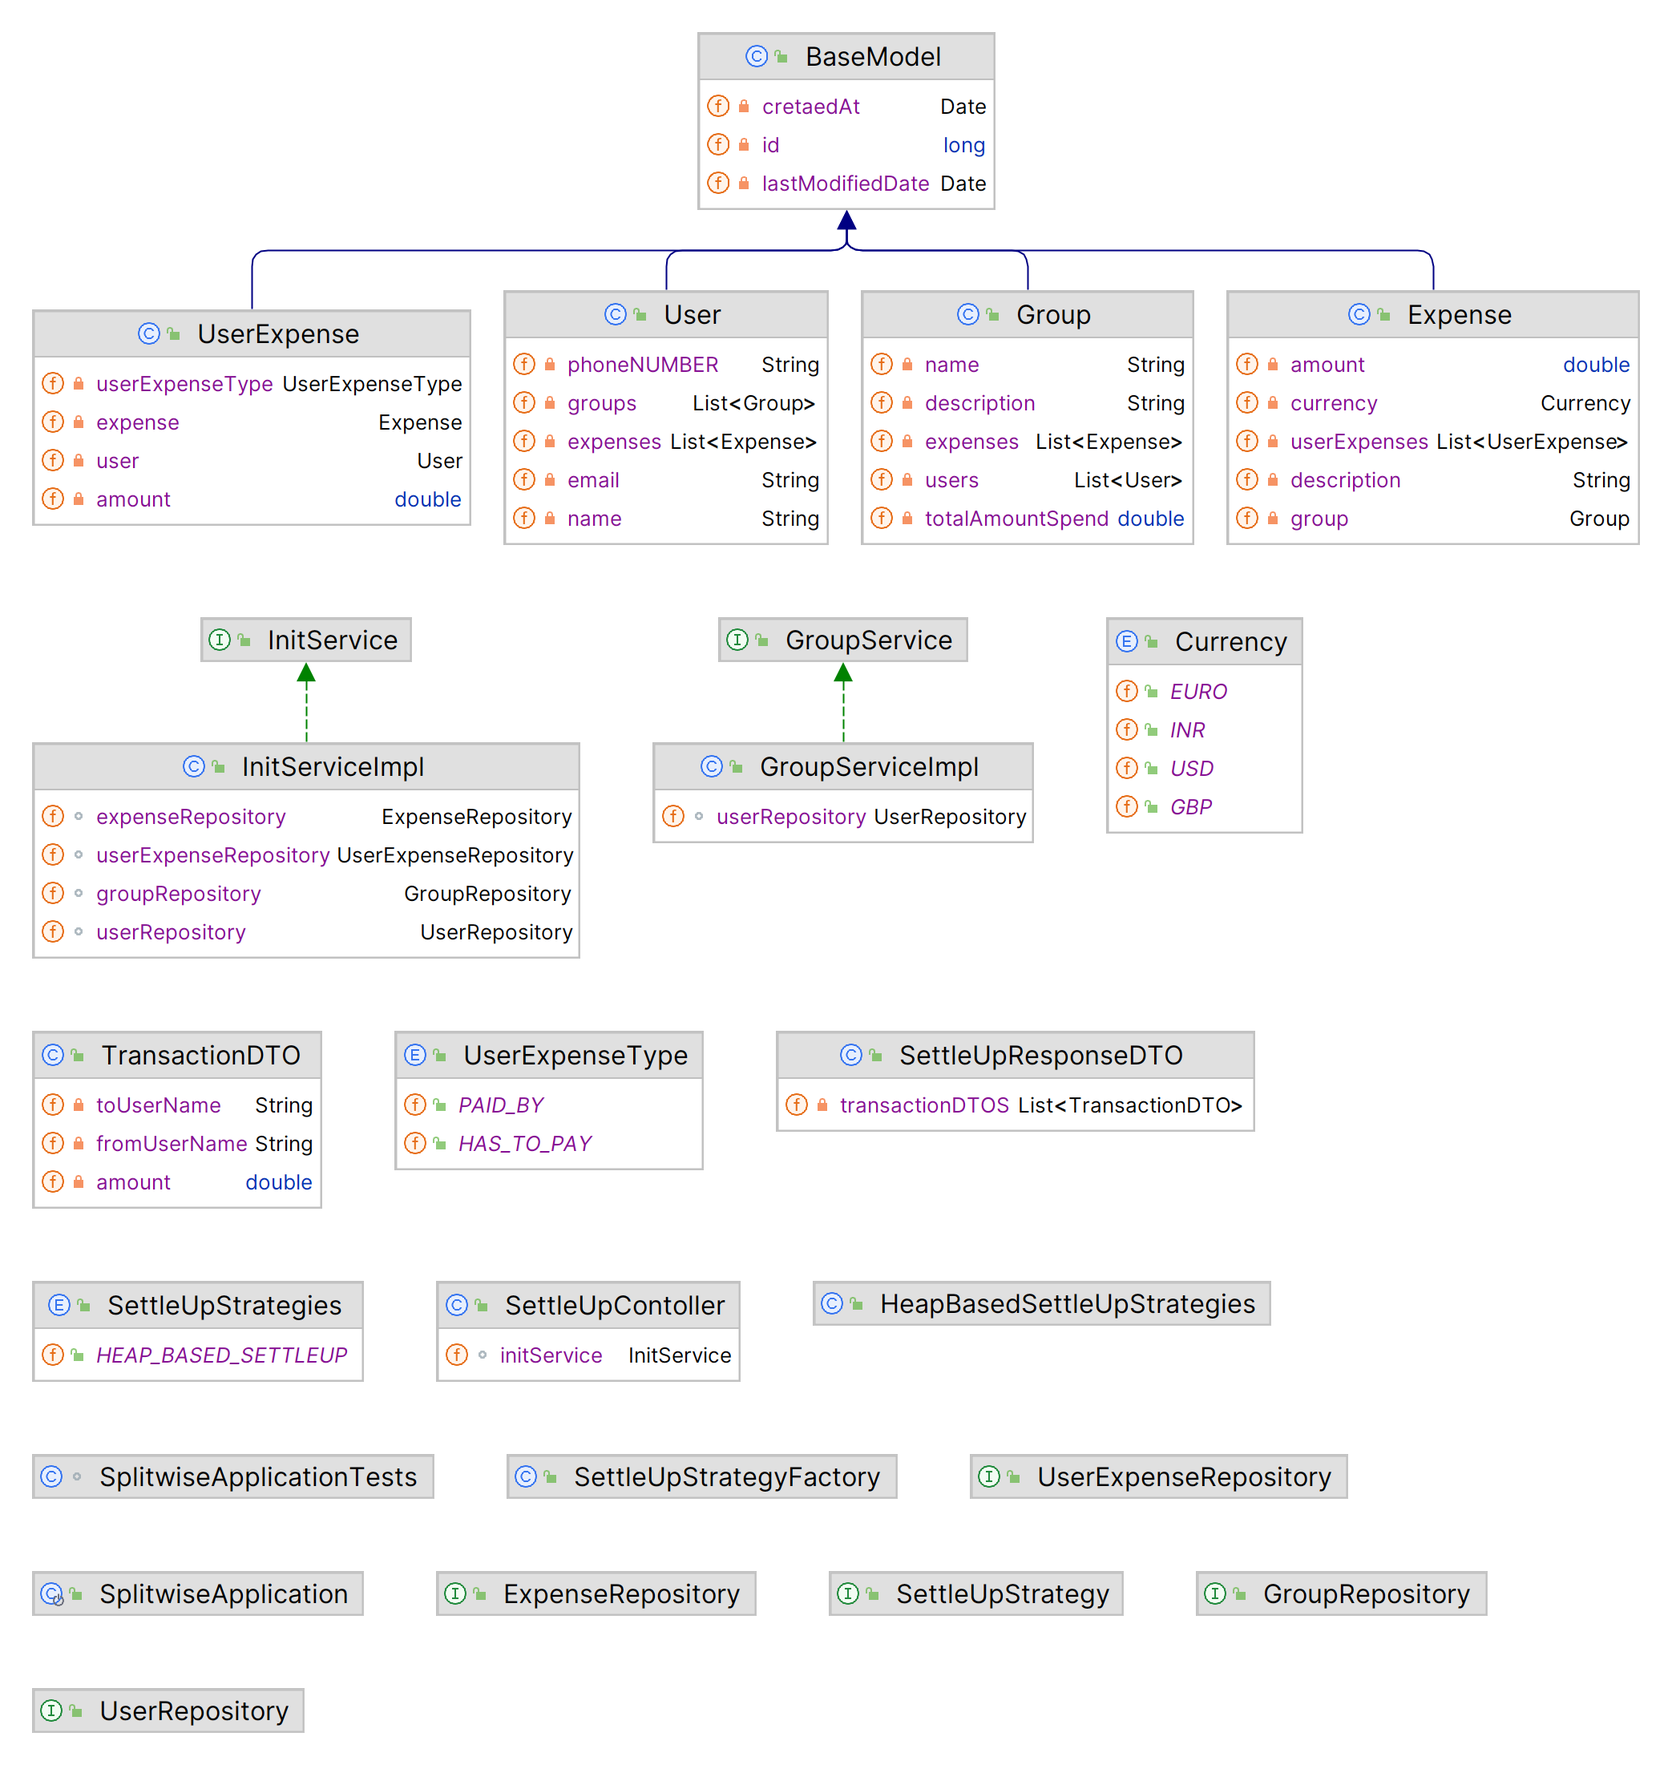
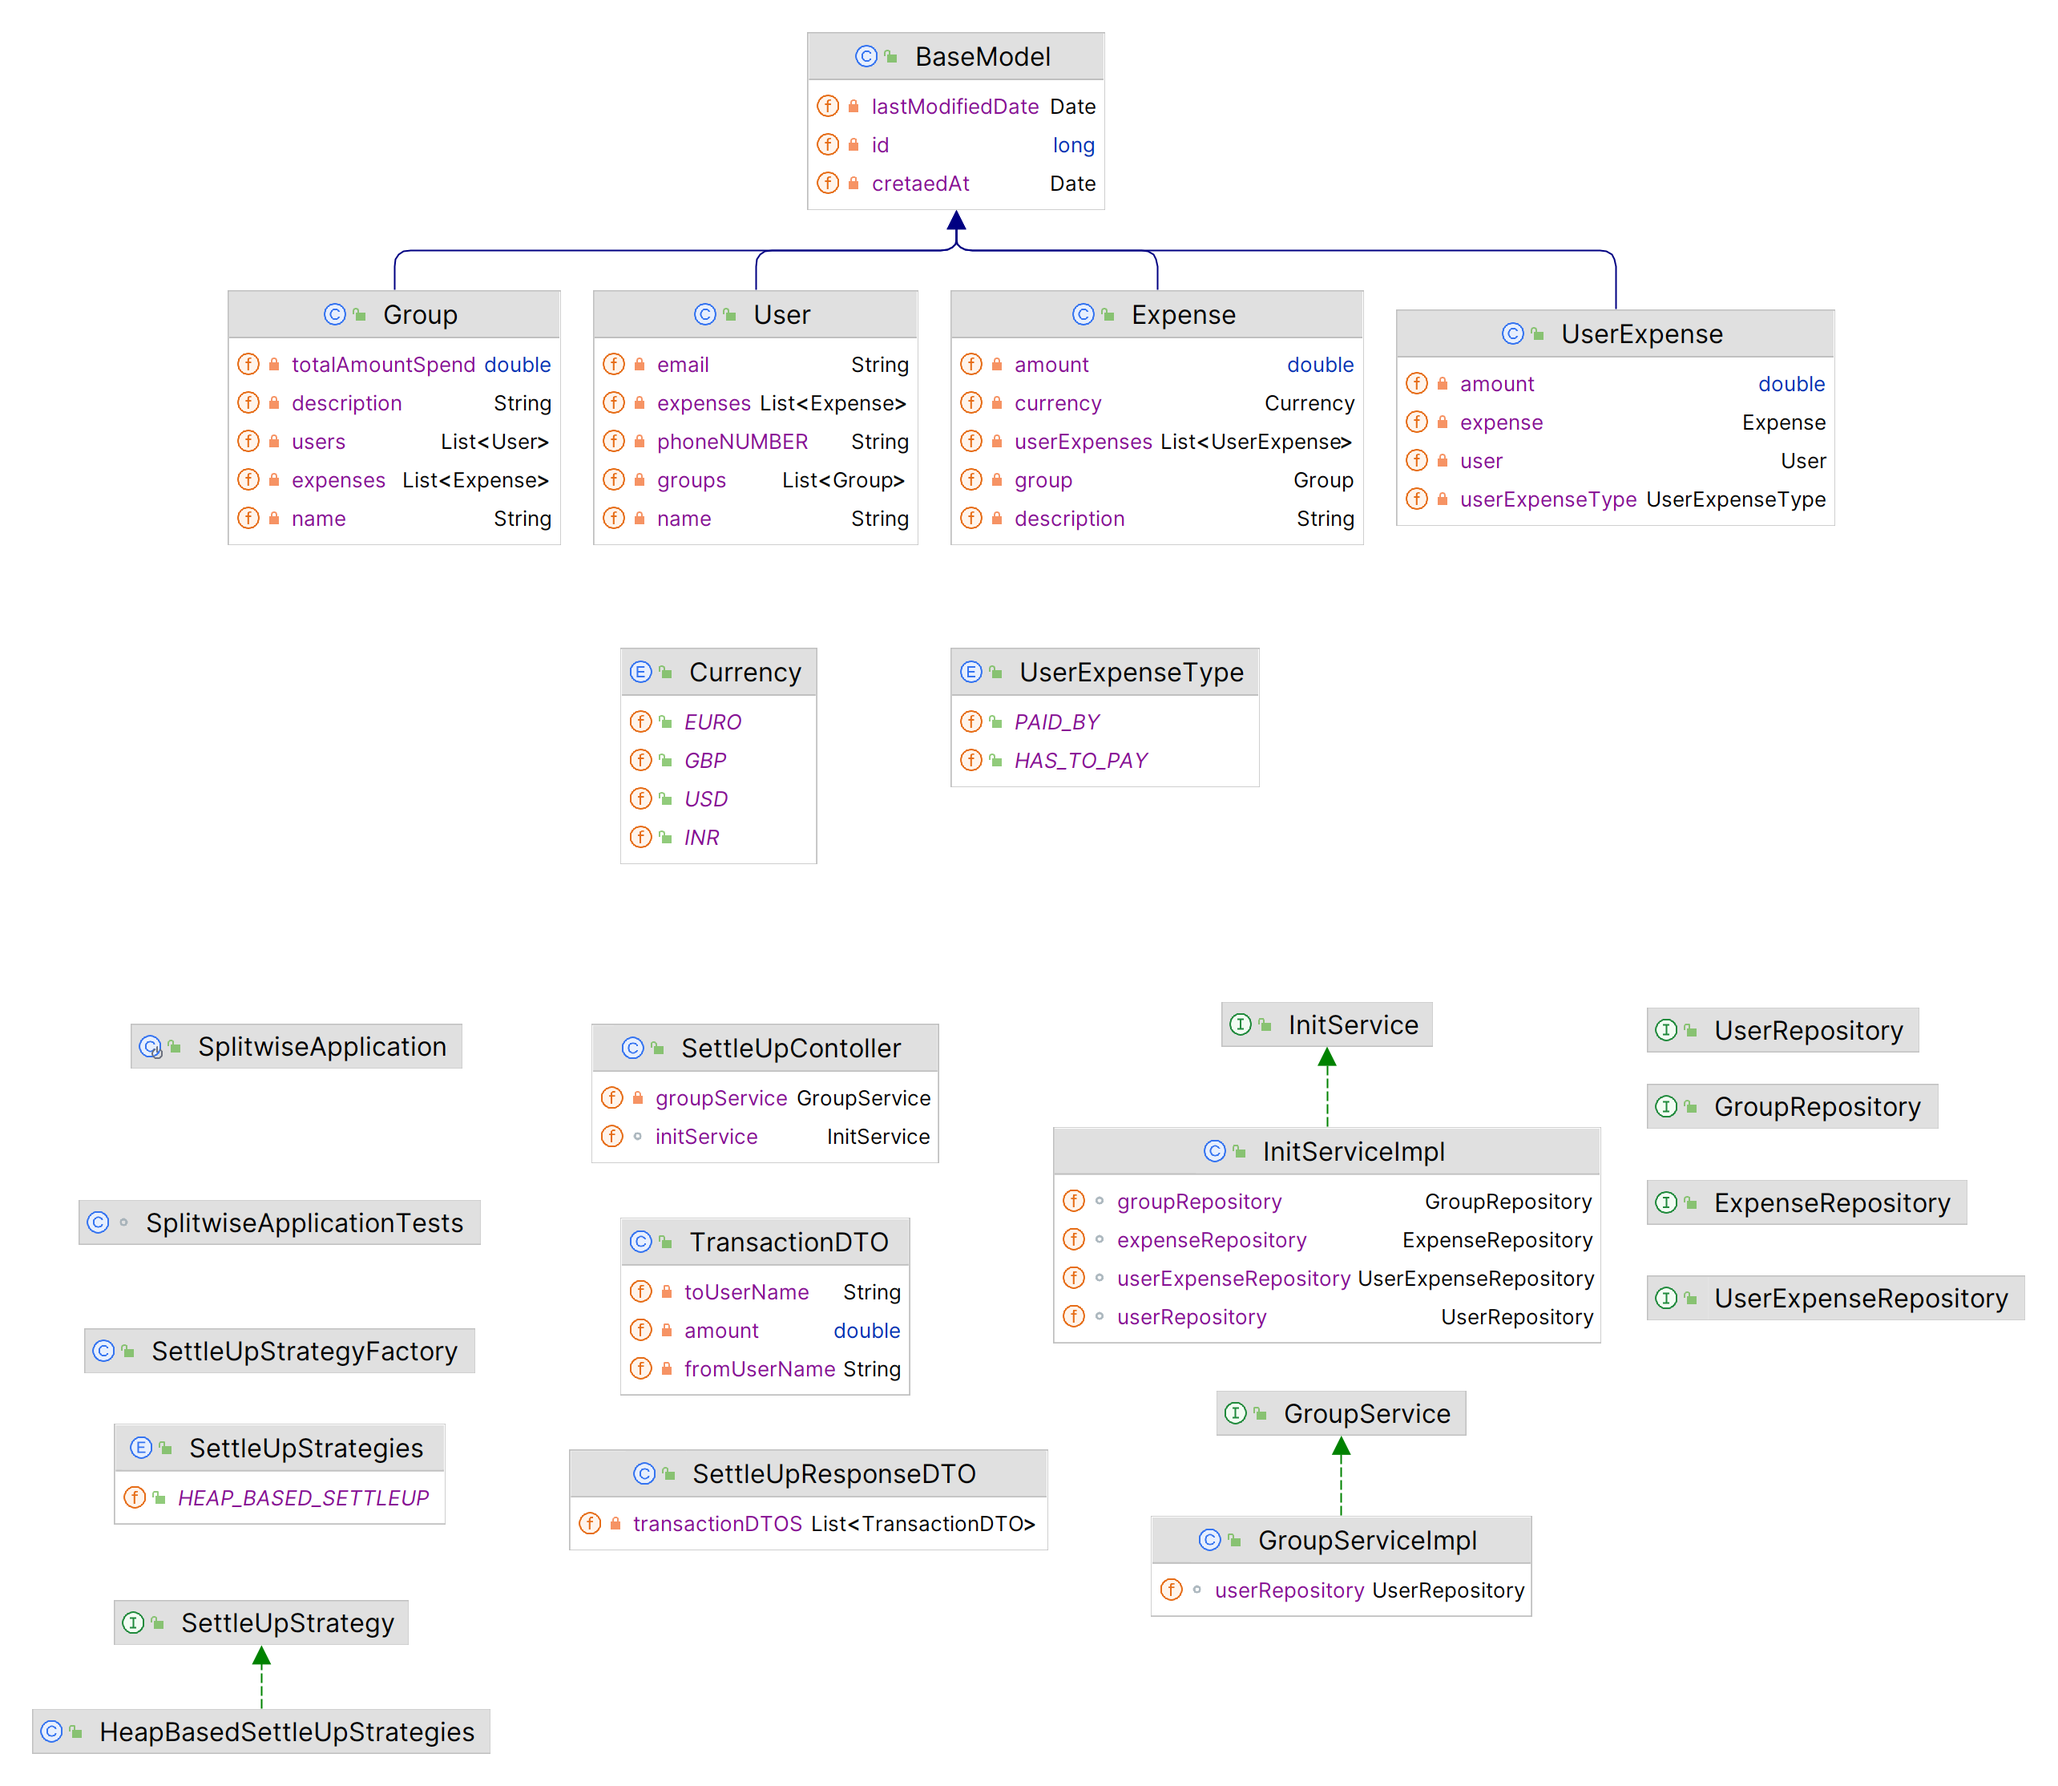
update readme.md

diff --git a/src/main/java/com/scaler/splitwise/service/InitServiceImpl.java b/src/main/java/com/scaler/splitwise/service/InitServiceImpl.java
@@ -10,23 +10,23 @@ import com.scaler.splitwise.repository.ExpenseRepository;
 import com.scaler.splitwise.repository.GroupRepository;
 import com.scaler.splitwise.repository.UserExpenseRepository;
 import com.scaler.splitwise.repository.UserRepository;
+import org.springframework.beans.factory.annotation.Autowired;
 import org.springframework.stereotype.Service;
 
 import java.util.List;
 
 @Service
 public class InitServiceImpl implements InitService{
+    @Autowired
     UserRepository userRepository;
+    @Autowired
     GroupRepository groupRepository;
+    @Autowired
     ExpenseRepository expenseRepository;
+    @Autowired
     UserExpenseRepository userExpenseRepository;
 
-    public InitServiceImpl(UserRepository userRepository, GroupRepository groupRepository, ExpenseRepository expenseRepository, UserExpenseRepository userExpenseRepository) {
-        this.userRepository = userRepository;
-        this.groupRepository = groupRepository;
-        this.expenseRepository = expenseRepository;
-        this.userExpenseRepository = userExpenseRepository;
-    }
+
 
     @Override
     public void initialise() {
@@ -51,56 +51,53 @@ public class InitServiceImpl implements InitService{
         user4.setEmail("d@gmail.com");
         user4.setPhoneNUMBER("9818797930");
 
-        //save all user
-        user1 = userRepository.save(user1);
-        user2 = userRepository.save(user2);
-        user3 = userRepository.save(user3);
-        user4 = userRepository.save(user4);
 
         //create group and save
         Group group = new Group();
         group.setDescription("Friends who never pay back on time");
         group.setName("Trip to Manali");
         group.setUsers(List.of(user1, user2, user3, user4));
-
-        group =  groupRepository.save(group);
+        groupRepository.save(group);
 
         UserExpense userExpense = new UserExpense();
         userExpense.setUser(user1);
         userExpense.setAmount(1000);
         userExpense.setUserExpenseType(UserExpenseType.PAID_BY);
 
-        userExpense = userExpenseRepository.save(userExpense);
+        UserExpense userExpense5 = new UserExpense();
+        userExpense5.setUser(user2);
+        userExpense5.setAmount(1000);
+        userExpense5.setUserExpenseType(UserExpenseType.PAID_BY);
 
         UserExpense userExpense1 = new UserExpense();
         userExpense1.setUser(user1);
-        userExpense1.setAmount(250);
+        userExpense1.setAmount(500);
         userExpense1.setUserExpenseType(UserExpenseType.HAS_TO_PAY);
-        userExpense1 = userExpenseRepository.save(userExpense1);
+
 
         UserExpense userExpense2 = new UserExpense();
         userExpense2.setUser(user2);
-        userExpense2.setAmount(250);
+        userExpense2.setAmount(500);
         userExpense2.setUserExpenseType(UserExpenseType.HAS_TO_PAY);
-        userExpense2 = userExpenseRepository.save(userExpense2);
 
         UserExpense userExpense3 = new UserExpense();
         userExpense3.setUser(user3);
-        userExpense3.setAmount(250);
+        userExpense3.setAmount(500);
         userExpense3.setUserExpenseType(UserExpenseType.HAS_TO_PAY);
-        userExpense3 = userExpenseRepository.save(userExpense3);
+
 
         UserExpense userExpense4 = new UserExpense();
         userExpense4.setUser(user4);
-        userExpense4.setAmount(250);
+        userExpense4.setAmount(500);
         userExpense4.setUserExpenseType(UserExpenseType.HAS_TO_PAY);
-        userExpense4 = userExpenseRepository.save(userExpense4);
+
 
         Expense expense = new Expense();
         expense.setAmount(1000);
         expense.setDescription("Dinner");
         expense.setCurrency(Currency.INR);
-        expense.setUserExpenses(List.of(userExpense, userExpense1, userExpense2, userExpense3, userExpense4));
+        expense.setGroup(group);
+        expense.setUserExpenses(List.of(userExpense, userExpense5, userExpense1, userExpense2, userExpense3, userExpense4));
 
         expenseRepository.save(expense);
 

diff --git a/src/main/java/com/scaler/splitwise/model/Group.java b/src/main/java/com/scaler/splitwise/model/Group.java
@@ -1,27 +1,23 @@
 package com.scaler.splitwise.model;
 
-import jakarta.persistence.Entity;
-import jakarta.persistence.JoinColumn;
-import jakarta.persistence.ManyToMany;
-import jakarta.persistence.OneToMany;
+import jakarta.persistence.*;
 import lombok.AllArgsConstructor;
 import lombok.Data;
 import lombok.NoArgsConstructor;
 
 import java.util.List;
 
-@Data @NoArgsConstructor @AllArgsConstructor
-@Entity
+@Data
+@Entity(name = "splitwise_group")
 public class Group extends BaseModel {
     private String name;
 
     private String description;
 
-    @ManyToMany(mappedBy = "groups")
+    @ManyToMany(mappedBy = "groups",cascade = CascadeType.ALL)
     private List<User> users;
 
-    @OneToMany
-    @JoinColumn(name = "group_id")
+    @OneToMany(mappedBy = "group",cascade = CascadeType.ALL)
     private List<Expense> expenses;
 
     private double totalAmountSpend;

diff --git a/src/main/java/com/scaler/splitwise/model/UserExpense.java b/src/main/java/com/scaler/splitwise/model/UserExpense.java
@@ -1,22 +1,19 @@
 package com.scaler.splitwise.model;
 
 import com.scaler.splitwise.model.enums.UserExpenseType;
-import jakarta.persistence.Entity;
-import jakarta.persistence.EnumType;
-import jakarta.persistence.Enumerated;
-import jakarta.persistence.ManyToOne;
+import jakarta.persistence.*;
 import lombok.AllArgsConstructor;
 import lombok.Data;
 import lombok.NoArgsConstructor;
 
-@Data @NoArgsConstructor @AllArgsConstructor
+@Data
 @Entity
 public class UserExpense extends BaseModel {
-    @ManyToOne
+    @ManyToOne(cascade = CascadeType.ALL)
     private User user;
 
     //1 user expense paid by or had to pay , like A has to pay to B, C, D , so A involve in many expense
-    @ManyToOne
+    @ManyToOne(cascade = CascadeType.ALL)
     private Expense expense;
 
     private double amount;

diff --git a/src/main/java/com/scaler/splitwise/model/BaseModel.java b/src/main/java/com/scaler/splitwise/model/BaseModel.java
@@ -10,17 +10,17 @@ import org.springframework.data.annotation.LastModifiedDate;
 import java.util.Date;
 
 
-@Data @NoArgsConstructor @AllArgsConstructor
+@Data
 @MappedSuperclass
 public class BaseModel {
     @Id
     @GeneratedValue(strategy = GenerationType.AUTO)
     private long id;
-    @CreatedDate
-    @Temporal(value = TemporalType.TIMESTAMP)
-    private Date cretaedAt;
-    @LastModifiedDate
-    @Temporal(value = TemporalType.TIMESTAMP)
-    private Date lastModifiedDate;
+//    @CreatedDate
+//    @Temporal(value = TemporalType.TIMESTAMP)
+//    private Date cretaedAt;
+//    @LastModifiedDate
+//    @Temporal(value = TemporalType.TIMESTAMP)
+//    private Date lastModifiedDate;
 
 }

diff --git a/src/main/java/com/scaler/splitwise/model/User.java b/src/main/java/com/scaler/splitwise/model/User.java
@@ -1,5 +1,6 @@
 package com.scaler.splitwise.model;
 
+import jakarta.persistence.CascadeType;
 import jakarta.persistence.Entity;
 import jakarta.persistence.ManyToMany;
 import lombok.AllArgsConstructor;
@@ -8,14 +9,14 @@ import lombok.NoArgsConstructor;
 
 import java.util.List;
 
-@Data @NoArgsConstructor @AllArgsConstructor
+@Data
 @Entity
 public class User extends BaseModel{
     private String name;
     private String email;
     private String phoneNUMBER;
-    @ManyToMany
+    @ManyToMany(cascade = CascadeType.ALL)
     private List<Expense> expenses;
-    @ManyToMany
+    @ManyToMany(cascade = CascadeType.ALL)
     private List<Group> groups;
 }

diff --git a/src/main/java/com/scaler/splitwise/model/Expense.java b/src/main/java/com/scaler/splitwise/model/Expense.java
@@ -9,19 +9,19 @@ import lombok.NoArgsConstructor;
 import java.util.HashMap;
 import java.util.List;
 
-@Data @NoArgsConstructor @AllArgsConstructor
+@Data
 @Entity
 public class Expense extends BaseModel{
     private String description;
     private double amount;
-    @ManyToOne
+    @ManyToOne(cascade = CascadeType.ALL)
     private Group group;
 /*    private HashMap<User, Double>  paidByUsers;
       private HashMap<User, Double>  hasToPayUsers;
 
  */
 
-    @OneToMany
+    @OneToMany(cascade = CascadeType.ALL)
     @JoinColumn(name = "user_id")
     private List<UserExpense> userExpenses;
 

diff --git a/README.md b/README.md
@@ -1,11 +1,73 @@
-In this we try to create splitwise application
+# Low Level Design - Splitwise
 
-    REQUIREDMENTS.md 
-        For requirement, i/p , o/p 
-    Notes.md 
-        For mapping between entity, SettleUp algo Steps
-    SEARCH.md 
-        other things which we searched while making this project
+An expense sharing application is where you can add your expenses and split it among different people. The app keeps balances between people as in who owes how much to whom.
 
-<img alt="Local Image" src="src/main/resources/static/images/splitwise.png"/>
+### Requirements & Setup
+
+Requirements to run this program are :
+
+- Java 17
+- Maven
+- MySQl Db
+
+### Running the application locally
+
+- Clone this repository
+- In `resources/application.properties` replace the database credential
+- spring.datasource.url = MYSQL_URL
+    - e.g. jdbc:mysql://localhost:3306/splitwise
+- spring.datasource.driver-class-name=com.mysql.cj.jdbc.Driver
+- spring.datasource.username=DB_USERNAME
+- spring.datasource.password=DB_PASSWORD
+
+
+### Requirement
+
+[Link](https://workat.tech/machine-coding/practice/splitwise-problem-0kp2yneec2q2)
+
+- User: Each user should have a userId, name, email, mobile number.
+- Expense: Could either be EQUAL, EXACT or PERCENT
+- Users can add any amount, select any type of expense and split with any of the available users.
+- The percent and amount provided could have decimals upto two decimal places.
+- In case of percent, you need to verify if the total sum of percentage shares is 100 or not.
+- In case of exact, you need to verify if the total sum of shares is equal to the total amount or not.
+- The application should have a capability to show expenses for a single user as well as balances for everyone.
+- When asked to show balances, the application should show balances of a user with all the users where there is a non-zero balance.
+- The amount should b
+
+### Input
+
+- You can create a few users in your main method. No need to take it as input.
+- There will be 3 types of input:
+- Expense in the format: EXPENSE <user-id-of-person-who-paid> <no-of-users> <space-separated-list-of-users> <EQUAL/EXACT/PERCENT> <space-separated-values-in-case-of-non-equal>
+- Show balances for all: SHOW
+- Show balances for a single user: SHOW <user-id>
+
+### Output
+
+- When asked to show balance for a single user. Show all the balances that user is part of:
+- Format: <user-id-of-x> owes <user-id-of-y>: <amount>
+- If there are no balances for the input, print No balances
+- In cases where the user for which balance was asked for, owes money, they’ll be x. They’ll be y otherwise.
+
+### Class Diagram
+
+![Class Diagram](src/main/resources/static/images/splitwise_class_diagram.png)
+
+### ER Diagram
+
+![ER Diagram](src/main/resources/static/images/splitwise_ER_Diagram.png)
+
+### Settle Up Algo
+1. Go through all the expenses and find the outstanding amount for each user
+   1. Loop through each expense, and for each expense
+   2. We will loop through all the userExpense
+   3. If userExpense type is PAID, it will be added as +ve
+   4. If userExpense type is HASTOPAY, it will be subtracted as -ve from each user
+2. All the users with negative balance [hasToPay] => minHeap
+3. All the users with positive balance [paid] => maxHeap
+4. We will find the transactions
+
+
+
 

diff --git a/Notes.md b/Notes.md
@@ -8,15 +8,15 @@ Mapping
 first L->R
 second R->L
 
-    User Expense
+    User Expense    uni 
     1:M       
     M:1   
 
-    User Group
+    User Group  uni
     1:M
     M:1
 
-    Group Expense
+    Group Expense   bi
     1:M
     1:1
     
